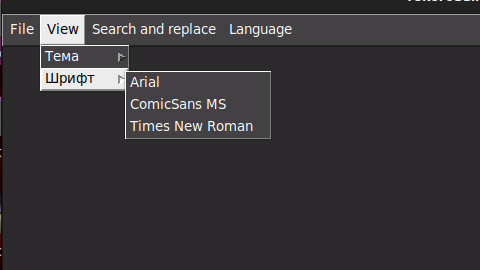
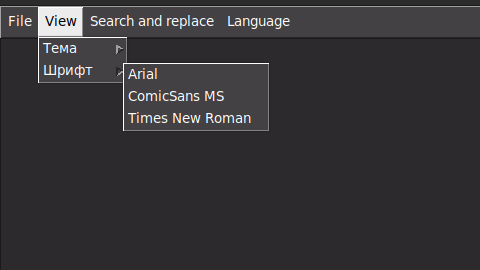
Исправил фотографии и READMe.md

diff --git a/README.md b/README.md
@@ -6,49 +6,62 @@
 
 #Функционал:
 
-1. Графический интерфейс: само поле для ввода текста и меню на верхней панели 
-На панели есть:
-    В разделе File: сохранение , открытие файла и закрытие окна
-    ![меню File](img/file.png)
-    В разделе View: можно выбрать шрифт(times New Roman, Arial, ComicSans MS) и тему(тёмная и светлая)
-    ![перечень шрифтов](img/fonts.png)
-    ![перечен тем](img/views.png)
-    В разделе Search and replace: поиск с заменой
-    ![окно поиска](img/search_and_replace.png)
-    В разделе Language: можно выбрать язык для переключения подсветки синтаксиса
-    ![перечень языков](img/language.png)
-Также есть горячая клавиша для закрытия окна: ctrl + q.
+1. Графический интерфейс: само поле для ввода текста и меню на верхней панели  
+На панели есть:  
+    В разделе File: сохранение , открытие файла и закрытие окна  
+    ![меню File](img/file.png)  
+    В разделе View: можно выбрать шрифт(times New Roman, Arial, ComicSans MS) и тему(тёмная и светлая)  
+    ![перечень шрифтов](img/fonts.png)  
+    ![перечен тем](img/views.png)  
+    В разделе Search and replace: поиск с заменой  
+    ![окно поиска](img/search_and_replace.png)  
+    В разделе Language: можно выбрать язык для переключения подсветки синтаксиса  
+    ![перечень языков](img/language.png)  
+Также есть горячая клавиша для закрытия окна: ctrl + q.  
 
-2. Работа с текстовым файлом: сохранение, открытие других файлов(этим функциям соответствуют горячие клавиши ctrl + s и ctrl + o)
+2. Работа с текстовым файлом: сохранение, открытие других файлов(этим функциям соответствуют горячие клавиши ctrl + s и ctrl + o)  
 
-3. Редактирование текста: использование горячих клавиш:
+3. Редактирование текста: использование горячих клавиш:  
 
-    3.1. ctrl + a - выделение всего текста
+    3.1. ctrl + a - выделение всего текста  
 
-    3.2. ctrl + d - удалени строки
+    3.2. ctrl + d - удалени строки  
 
-    3.3. ctrl + w - удаление слова
+    3.3. ctrl + w - удаление слова  
 
-    3.4. ctrl + right/left/home/end - перемещение по тексту
+    3.4. ctrl + right/left/home/end - перемещение по тексту  
 
-    3.5. ctrl + f - поиск по тексту и замена
+    3.5. ctrl + f - поиск по тексту и замена  
 
-#Как запускать
+#Как запускать  
 
-В репозитории лежит файл Makefile в котором прописана команда , но я посчитал , что проще прописать make для запуска программы
-'''make'''
-или
-'''python3 main.py'''
+В репозитории лежит файл Makefile в котором прописана команда , но я посчитал , что проще прописать make для запуска программы  
+'''
+make
+'''  
+или  
+'''
+python3 main.py
+'''  
+  
+#Подключение ЯП  
+  
+В репозитории есть файл config.json в которм описаны правила некоторого ключевого синтаксиса для трёх языков: python, c++, java. Для того чтобы добавить новый язык, нужно разбить его на разделы, как там прописано, и выбрать свой язык на панели меню.  
 
-#Подключение ЯП
+![пример подсветки кода](img/example_highlight.png)  
 
-В репозитории есть файл config.json в которм описаны правила некоторого ключевого синтаксиса для трёх языков: python, c++, java. Для того чтобы добавить новый язык, нужно разбить его на разделы, как там прописано, и выбрать свой язык на панели меню.
+#Команды для установки библиотек  
 
-![пример подсветки кода](img/example_highlight.png)
+'''
+pip install tk
+'''  
 
-#Команды для установки библиотек
-
-'''pip install tkinter'''
-'''pip install re'''
-'''pip install json'''
-'''pip install os'''
+'''
+pip install re
+'''  
+'''
+pip install json
+'''  
+'''
+pip install os
+'''  
